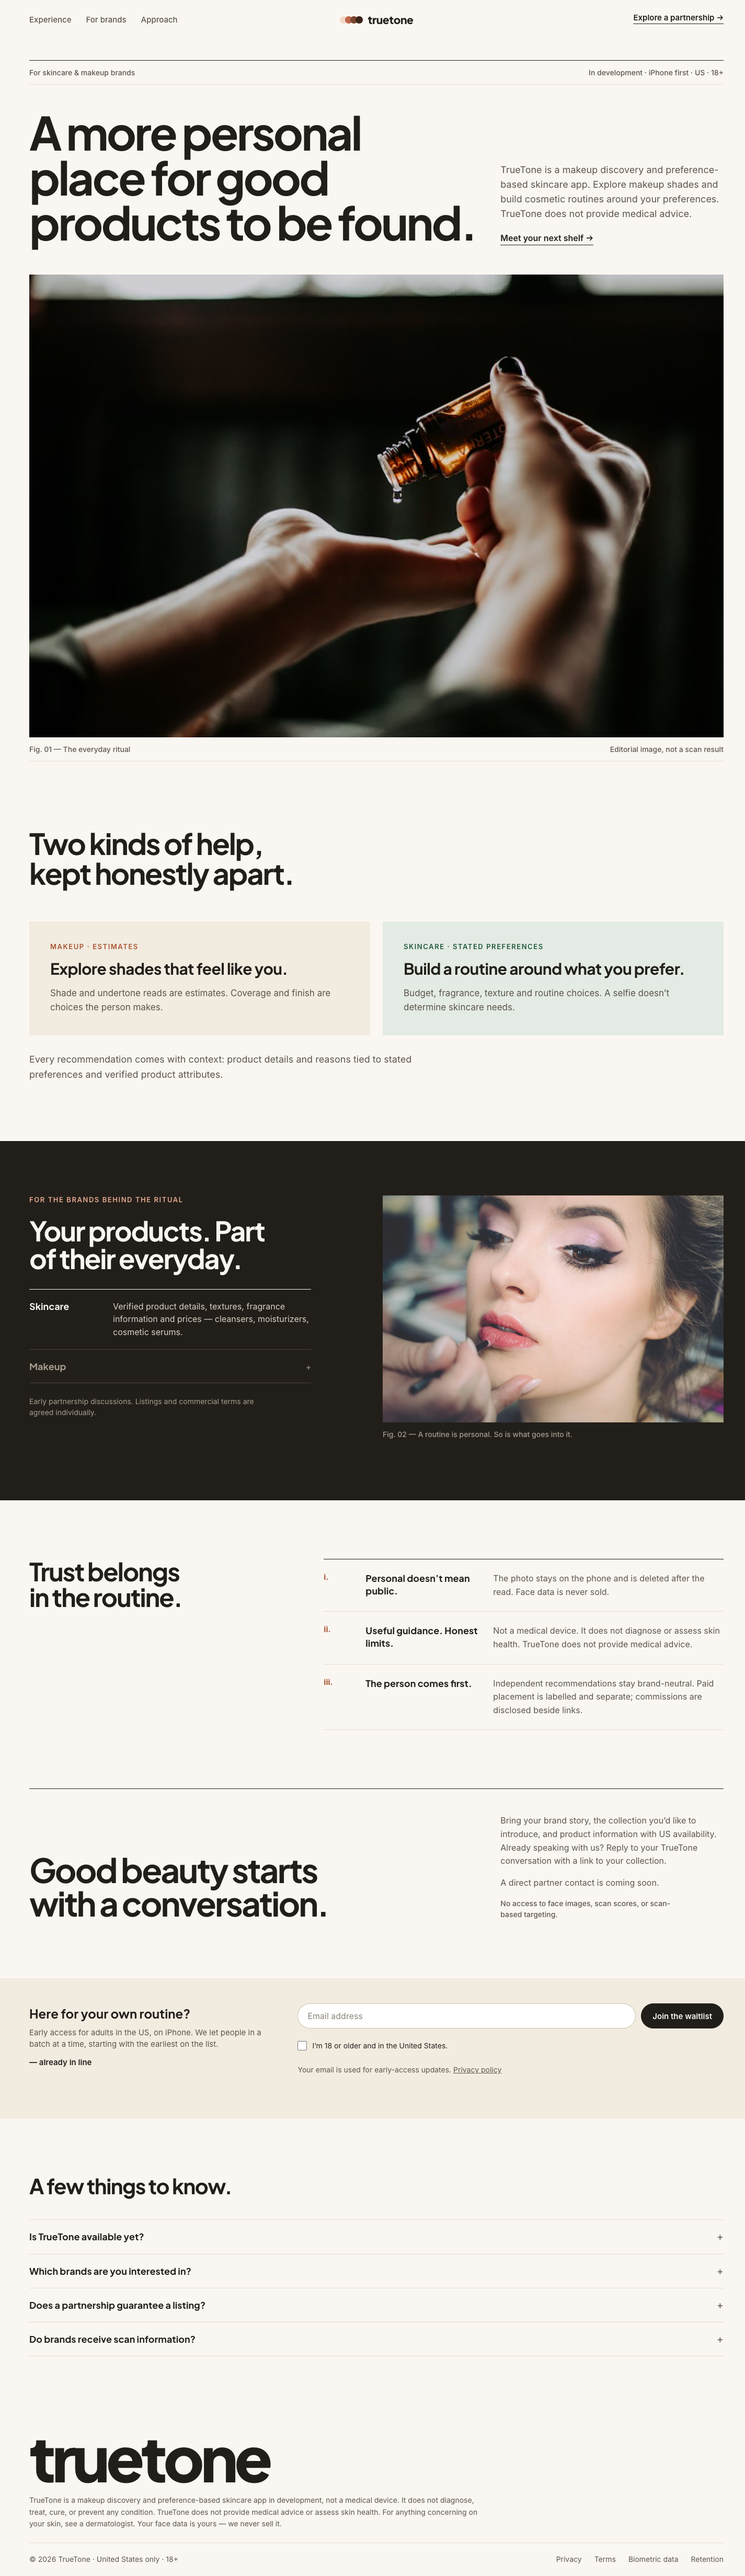
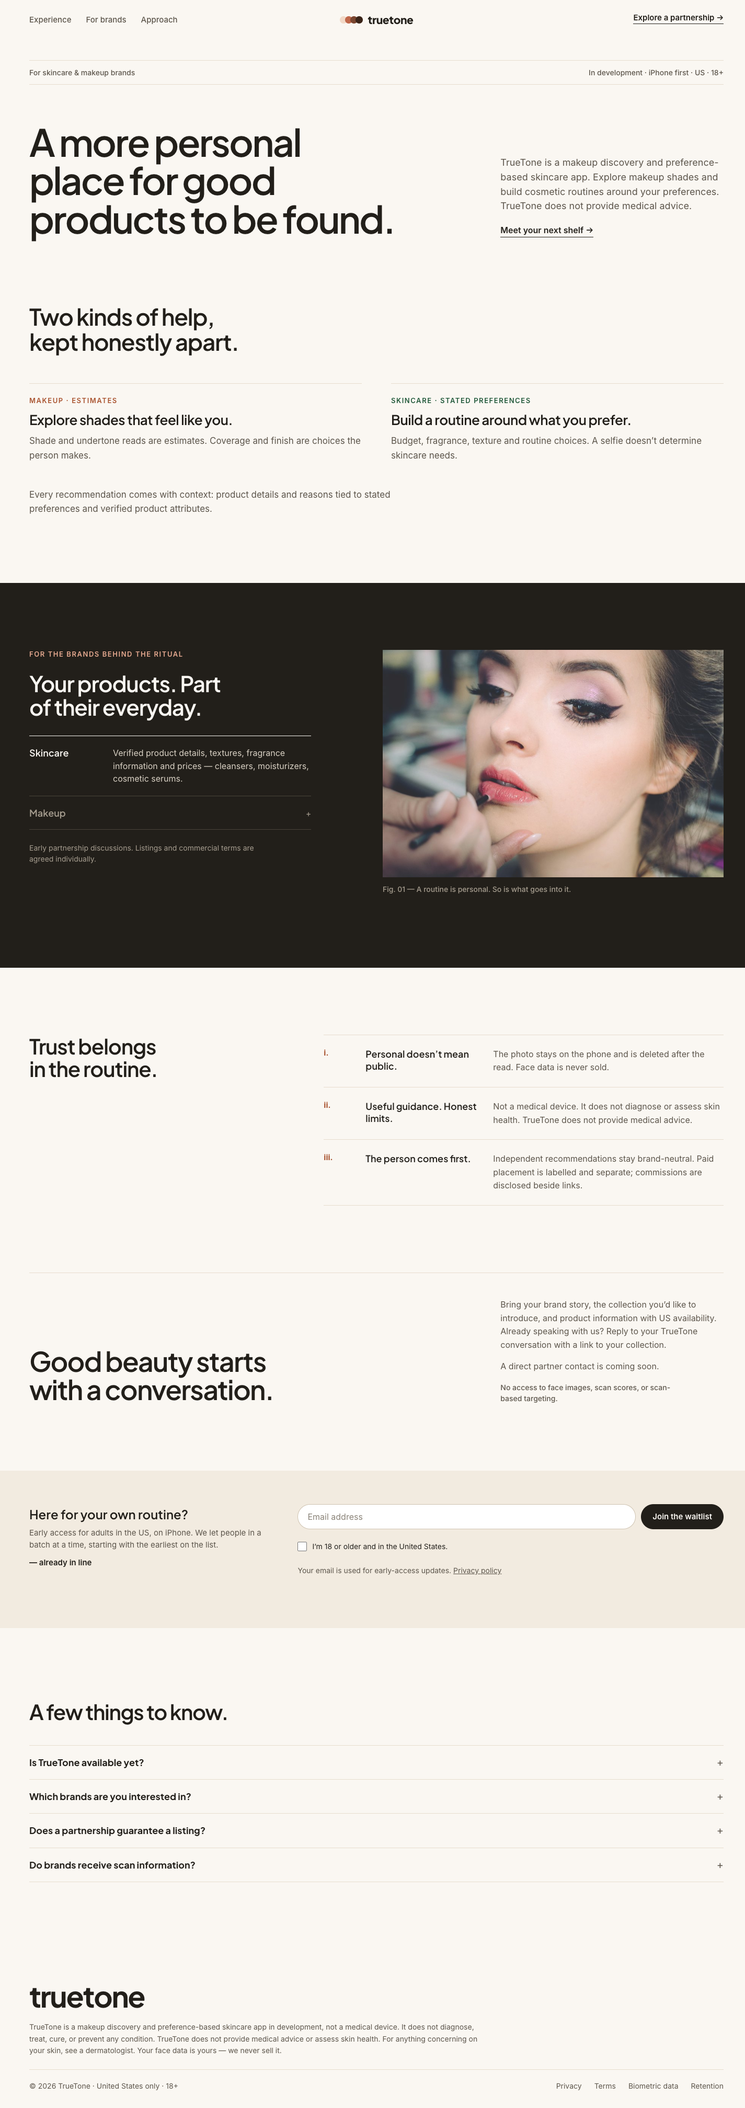
feat(web): simpler landing — brand rows open on hover, hero photo removed
- Skincare/Makeup rows in the brands section open on hover (mouse/pen on
  hover-capable devices), on keyboard focus, and still on tap/click for touch.
  Decision logic in shouldSelectOn, unit tested.
- Remove the full-width "Fig. 01 — The everyday ritual" hero photo and its
  now-unused image file.
- Lighter, more minimal page: smaller/lighter headings, no filled cards in
  "Two kinds of help", thinner rules, smaller footer wordmark, more whitespace.
  No new sections, copy unchanged apart from the figure number.
- Refresh 375px / 1440px screenshots.

diff --git a/web/landing.css b/web/landing.css
@@ -1,5 +1,5 @@
-/* TrueTone landing — partner-first editorial layout (design option 2a, with the 1b
-   photo, two-kinds section, waitlist band and footer).
+/* TrueTone landing — partner-first editorial layout (design option 2a, with the
+   two-kinds section, waitlist band and footer), pared back to a minimal, light page.
    Palette: ink #221f1a, cream #faf7f2, sand #f2ebe0, forest #2f7d52, clay #a9532f.
    Type: Plus Jakarta Sans (display), Inter (body), both self-hosted from /fonts so the
    page loads nothing third-party (CLAUDE.md §1). The CSP forbids inline styles, so every
@@ -38,7 +38,7 @@
   --body: "Inter", "Segoe UI", system-ui, sans-serif;
   --gutter: 56px;
   --maxw: 1440px;
-  --section: 112px;
+  --section: 128px;
 }
 
 * { box-sizing: border-box; }
@@ -55,7 +55,7 @@ body {
   overflow-x: hidden;
 }
 
-h1, h2, h3 { font-family: var(--display); font-weight: 700; margin: 0; }
+h1, h2, h3 { font-family: var(--display); font-weight: 600; margin: 0; }
 h1, h2 { text-wrap: balance; }
 p { margin: 0; text-wrap: pretty; }
 img { display: block; max-width: 100%; height: auto; }
@@ -111,45 +111,38 @@ a:focus-visible, button:focus-visible, summary:focus-visible, input:focus-visibl
 .ledger-strip {
   display: flex; justify-content: space-between; gap: 16px;
   padding: 14px 0;
-  border-top: 1.5px solid var(--ink);
+  border-top: 1px solid var(--line);
   border-bottom: 1px solid var(--line);
   font: 500 14px var(--body); color: var(--muted);
 }
 .hero-grid {
   display: grid; grid-template-columns: repeat(12, minmax(0, 1fr)); gap: 24px;
-  align-items: end; margin: 48px 0 56px;
+  align-items: end; margin: 72px 0 0;
 }
-.hero h1 { grid-column: 1 / span 8; font-size: clamp(40px, 6.9vw, 88px); line-height: .98; letter-spacing: -.045em; }
+.hero h1 { grid-column: 1 / span 8; font-size: clamp(40px, 5.6vw, 72px); line-height: 1.02; letter-spacing: -.04em; }
 .hero-side { grid-column: 9 / span 4; display: flex; flex-direction: column; gap: 22px; }
 .hero-side p { font-size: 18px; line-height: 1.55; color: var(--muted); }
 
-/* ── photos keep their natural 3:2 so nothing is cropped ── */
-.photo img, .brands-photo img { width: 100%; aspect-ratio: 3 / 2; object-fit: contain; }
-.photo figcaption {
-  display: flex; justify-content: space-between; gap: 16px;
-  padding: 14px 0; border-bottom: 1px solid var(--line);
-  font: 500 14px var(--body); color: var(--muted);
-}
+/* ── the brands photo keeps its natural 3:2 so nothing is cropped ── */
+.brands-photo img { width: 100%; aspect-ratio: 3 / 2; object-fit: contain; }
 
 /* ── two kinds of help ── */
 .experience { padding-block: var(--section); }
-.experience h2 { max-width: 14ch; font-size: clamp(34px, 4.4vw, 56px); line-height: 1.02; letter-spacing: -.04em; margin-bottom: 64px; }
-.kinds { display: grid; grid-template-columns: 1fr 1fr; gap: 24px; }
-.kind { padding: 40px; display: flex; flex-direction: column; gap: 16px; }
-.kind h3 { font-size: clamp(24px, 2.4vw, 30px); line-height: 1.15; letter-spacing: -.02em; }
+.experience h2 { max-width: 14ch; font-size: clamp(30px, 3.6vw, 44px); line-height: 1.08; letter-spacing: -.03em; margin-bottom: 56px; }
+.kinds { display: grid; grid-template-columns: 1fr 1fr; gap: 56px; }
+.kind { padding-top: 24px; border-top: 1px solid var(--line); display: flex; flex-direction: column; gap: 12px; }
+.kind h3 { font-size: clamp(22px, 2vw, 26px); line-height: 1.2; letter-spacing: -.02em; }
 .kind p:last-child { font-size: 17px; color: var(--muted); }
-.kind-makeup { background: var(--sand); }
 .kind-makeup .eyebrow { color: var(--clay); }
-.kind-skin { background: var(--sage); }
 .kind-skin .eyebrow { color: var(--green-deep); }
-.kinds-note { max-width: 44em; margin-top: 32px; font-size: 18px; color: var(--muted); }
+.kinds-note { max-width: 44em; margin-top: 48px; font-size: 17px; color: var(--muted); }
 
 /* ── brands: ink band ── */
-.brands { background: var(--ink); color: var(--cream); padding-block: 104px; }
+.brands { background: var(--ink); color: var(--cream); padding-block: var(--section); }
 .brands-inner { display: grid; grid-template-columns: repeat(12, minmax(0, 1fr)); gap: 24px; align-items: start; }
 .brands-copy { grid-column: 1 / span 5; display: flex; flex-direction: column; gap: 24px; }
 .brands-copy .eyebrow { color: var(--clay-soft); }
-.brands h2 { font-size: clamp(34px, 4vw, 52px); line-height: 1.02; letter-spacing: -.04em; }
+.brands h2 { font-size: clamp(30px, 3.4vw, 42px); line-height: 1.08; letter-spacing: -.03em; }
 .ledger { margin-top: 8px; border-bottom: 1px solid var(--ink-line); }
 .ledger-row { display: grid; grid-template-columns: 140px 1fr; gap: 20px; border-top: 1px solid var(--ink-line); }
 .ledger-row:has([aria-pressed="true"]) { border-top-color: var(--cream); }
@@ -157,7 +150,7 @@ a:focus-visible, button:focus-visible, summary:focus-visible, input:focus-visibl
   display: flex; justify-content: space-between; align-items: baseline;
   grid-column: 1 / -1; padding: 20px 0; min-height: 44px;
   background: none; border: 0; cursor: pointer; text-align: left;
-  font: 700 18px var(--display); color: var(--on-ink-faint);
+  font: 600 18px var(--display); color: var(--on-ink-faint);
 }
 .ledger button .plus { font: 400 16px var(--body); }
 .ledger button[aria-pressed="true"] { grid-column: 1; color: var(--cream); cursor: default; }
@@ -169,10 +162,9 @@ a:focus-visible, button:focus-visible, summary:focus-visible, input:focus-visibl
 
 /* ── principles: ledger ── */
 .principles { padding-block: var(--section); display: grid; grid-template-columns: repeat(12, minmax(0, 1fr)); gap: 24px; }
-.principles h2 { grid-column: 1 / span 4; font-size: clamp(32px, 3.8vw, 48px); line-height: 1.02; letter-spacing: -.04em; }
+.principles h2 { grid-column: 1 / span 4; font-size: clamp(30px, 3.2vw, 40px); line-height: 1.08; letter-spacing: -.03em; }
 .principle-list { grid-column: 6 / span 7; list-style: none; margin: 0; padding: 0; border-bottom: 1px solid var(--line); }
 .principle-list li { display: grid; grid-template-columns: 56px minmax(0, 220px) 1fr; gap: 24px; padding: 24px 0; border-top: 1px solid var(--line); }
-.principle-list li:first-child { border-top: 1.5px solid var(--ink); }
 .numeral { font: 700 15px var(--body); color: var(--clay); }
 .principle-list h3 { font-size: 18px; line-height: 1.3; }
 .principle-list p { color: var(--muted); }
@@ -182,17 +174,17 @@ a:focus-visible, button:focus-visible, summary:focus-visible, input:focus-visibl
   display: grid; grid-template-columns: repeat(12, minmax(0, 1fr)); gap: 24px; align-items: end;
   padding-bottom: var(--section);
 }
-.partnership::before { content: ""; grid-column: 1 / -1; border-top: 1.5px solid var(--ink); margin-bottom: 24px; }
+.partnership::before { content: ""; grid-column: 1 / -1; border-top: 1px solid var(--line); margin-bottom: 24px; }
 .partnership h2 {
   grid-column: 1 / span 7;
-  font-size: clamp(36px, 5vw, 64px); line-height: 1; letter-spacing: -.045em;
+  font-size: clamp(30px, 4vw, 52px); line-height: 1.05; letter-spacing: -.035em;
 }
 .partner-side { grid-column: 9 / span 4; display: flex; flex-direction: column; gap: 16px; }
 .partner-side p { color: var(--muted); }
 .partner-note { font: 500 14px/1.5 var(--body); }
 
 /* ── waitlist band ── */
-.join { background: var(--sand); padding-block: 48px; }
+.join { background: var(--sand); padding-block: 64px; }
 .join-inner { display: grid; grid-template-columns: 4fr 7fr; gap: 48px; align-items: start; }
 .join h2 { font-size: 24px; margin-bottom: 6px; }
 .join-copy p { font-size: 15px; line-height: 1.5; color: var(--muted); }
@@ -224,7 +216,7 @@ a:focus-visible, button:focus-visible, summary:focus-visible, input:focus-visibl
 .referrals { font-size: 14px; color: var(--muted); }
 
 /* ── FAQ ── */
-.faq { padding-block: 96px; }
+.faq { padding-block: var(--section); }
 .faq h2 { font-size: clamp(28px, 3vw, 40px); letter-spacing: -.035em; margin-bottom: 32px; }
 .faq-list { border-bottom: 1px solid var(--line); }
 .faq details { border-top: 1px solid var(--line); }
@@ -239,8 +231,8 @@ a:focus-visible, button:focus-visible, summary:focus-visible, input:focus-visibl
 .faq details p { max-width: 46em; padding: 0 0 24px; color: var(--muted); }
 
 /* ── footer ── */
-.foot { padding-top: 48px; padding-bottom: 36px; display: flex; flex-direction: column; gap: 24px; }
-.foot-mark { font: 800 clamp(64px, 10vw, 120px)/.8 var(--display); letter-spacing: -.06em; }
+.foot { padding-top: 64px; padding-bottom: 36px; display: flex; flex-direction: column; gap: 24px; }
+.foot-mark { font: 700 clamp(40px, 5vw, 56px)/.9 var(--display); letter-spacing: -.04em; }
 .disclaimer { max-width: 860px; font-size: 14px; color: var(--muted); }
 .foot-bottom {
   display: flex; justify-content: space-between; flex-wrap: wrap; gap: 12px 24px;
@@ -252,13 +244,12 @@ a:focus-visible, button:focus-visible, summary:focus-visible, input:focus-visibl
 
 /* ── tablet ── */
 @media (max-width: 960px) {
-  :root { --gutter: 32px; --section: 80px; }
+  :root { --gutter: 32px; --section: 96px; }
   .hero h1, .hero-side, .brands-copy, .brands-photo,
   .principles h2, .principle-list, .partnership h2, .partner-side { grid-column: 1 / -1; }
   .hero-grid, .brands-inner, .principles, .partnership { grid-template-columns: minmax(0, 1fr); }
-  .hero-grid { gap: 28px; margin: 36px 0 44px; }
+  .hero-grid { gap: 28px; margin: 48px 0 0; }
   .hero-side { max-width: 36em; }
-  .brands { padding-block: 80px; }
   .brands-inner { gap: 40px; }
   .principles { gap: 32px; }
   .partner-side { max-width: 36em; }
@@ -267,7 +258,7 @@ a:focus-visible, button:focus-visible, summary:focus-visible, input:focus-visibl
 
 /* ── phone ── */
 @media (max-width: 640px) {
-  :root { --gutter: 20px; --section: 64px; }
+  :root { --gutter: 20px; --section: 72px; }
   .site { grid-template-columns: 1fr auto; padding-block: 16px; border-bottom: 1px solid var(--line); }
   .site-nav, .site-cta { display: none; }
   .mark { grid-row: 1; grid-column: 1; }
@@ -283,19 +274,15 @@ a:focus-visible, button:focus-visible, summary:focus-visible, input:focus-visibl
   .menu nav a { padding: 12px 18px; text-decoration: none; font: 500 16px var(--body); }
   .hero { padding-top: 24px; }
   .ledger-strip { flex-direction: column; gap: 4px; font-size: 13px; padding: 10px 0; }
-  .hero h1 { font-size: 38px; line-height: 1.05; letter-spacing: -.03em; }
+  .hero h1 { font-size: 36px; line-height: 1.08; letter-spacing: -.03em; }
   .hero-side p { font-size: 17px; }
-  .photo { padding-inline: 0; }
-  .photo figcaption { flex-direction: column; gap: 2px; padding-inline: var(--gutter); font-size: 13px; }
   .experience h2 { margin-bottom: 32px; }
-  .kinds { grid-template-columns: 1fr; gap: 16px; }
-  .kind { padding: 28px 24px; }
+  .kinds { grid-template-columns: 1fr; gap: 40px; }
   .ledger-row { grid-template-columns: 1fr; gap: 0; }
   .ledger button[aria-pressed="true"] { grid-column: 1; padding-bottom: 8px; }
   .ledger-panel { grid-column: 1; padding-top: 0; }
   .principle-list li { grid-template-columns: 40px 1fr; gap: 8px 16px; }
   .principle-list p { grid-column: 2; }
   .signup-row { flex-direction: column; }
-  .faq { padding-block: 64px; }
   .foot-bottom a, .signup-privacy a { display: inline-block; padding-block: 10px; }
 }

diff --git a/web/landing.js b/web/landing.js
@@ -1,4 +1,4 @@
-// Presentational category switch for the brands band (Skincare / Makeup). No storage,
+// Presentational category switch (opens on hover, focus or tap) for the brands band (Skincare / Makeup). No storage,
 // no tracking, no network: it only flips aria-pressed on the buttons and hidden on the
 // panels they control. The decision lives in selectCategory so it is unit tested
 // (test/web/landing.test.mjs) without a DOM.
@@ -13,6 +13,14 @@ export function selectCategory(buttons, chosen, lookup) {
   }
 }
 
+/** A category opens on hover (mouse or pen on a hover-capable device), on keyboard focus,
+ *  and on click/tap — so touch screens without hover still work by tapping. */
+export function shouldSelectOn(event, canHover) {
+  if (event.type === 'click' || event.type === 'focus') return true;
+  if (event.type === 'pointerenter') return canHover && event.pointerType !== 'touch';
+  return false;
+}
+
 /** The no-JS <details> menu stays open after an in-page jump; close it when a link in
  *  it is chosen or Escape is pressed, so the panel stops covering the content. */
 export function shouldCloseMenu(event) {
@@ -24,8 +32,15 @@ export function shouldCloseMenu(event) {
 if (typeof document !== 'undefined') {
   const buttons = [...document.querySelectorAll('[data-category]')];
   const lookup = (id) => (id ? document.getElementById(id) : null);
+  const canHover = window.matchMedia?.('(hover: hover)').matches ?? false;
+  // Hovering anywhere on the row (label or open panel) counts, not just the button.
   for (const button of buttons) {
-    button.addEventListener('click', () => selectCategory(buttons, button, lookup));
+    const open = (event) => {
+      if (shouldSelectOn(event, canHover)) selectCategory(buttons, button, lookup);
+    };
+    button.addEventListener('click', open);
+    button.addEventListener('focus', open);
+    (button.closest('.ledger-row') ?? button).addEventListener('pointerenter', open);
   }
 
   const menu = document.querySelector('.menu');

diff --git a/web/index.html b/web/index.html
@@ -72,11 +72,6 @@
     </div>
   </section>
 
-  <figure class="photo frame">
-    <img src="/images/skincare-ritual.jpg" alt="Facial oil poured into a hand during a quiet skincare moment" width="900" height="600" fetchpriority="high" />
-    <figcaption><span>Fig. 01 — The everyday ritual</span><span>Editorial image, not a scan result</span></figcaption>
-  </figure>
-
   <!-- ── 2 · the experience: two kinds of help ────────────────────────────── -->
   <section class="experience frame" id="experience" aria-labelledby="experience-title">
     <h2 id="experience-title">Two kinds of help, kept honestly apart.</h2>
@@ -115,7 +110,7 @@
       </div>
       <figure class="brands-photo">
         <img src="/images/makeup-ritual.jpg" alt="Lip color being applied as part of a makeup routine" width="900" height="600" loading="lazy" />
-        <figcaption>Fig. 02 — A routine is personal. So is what goes into it.</figcaption>
+        <figcaption>Fig. 01 — A routine is personal. So is what goes into it.</figcaption>
       </figure>
     </div>
   </section>
